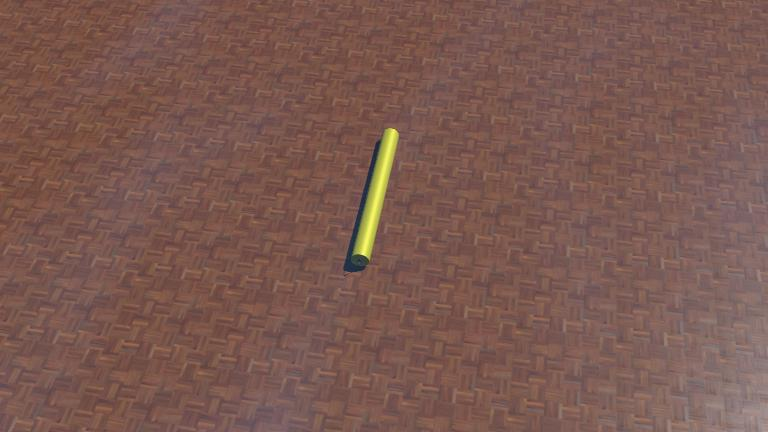
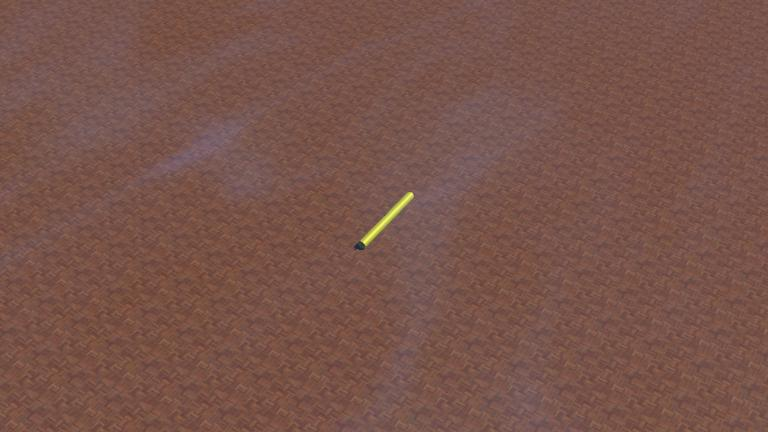
wip

diff --git a/controllers/alen3_controller_teleop/alen3_controller_teleop.py b/controllers/alen3_controller_teleop/alen3_controller_teleop.py
@@ -2,7 +2,10 @@
 
 from controller import Keyboard, Supervisor
 from controller.motor import Motor
+from controller.inertial_unit import InertialUnit
+from controller.altimeter import Altimeter
 from general_controller import GeneralAlenController, WebotsToAlenConnection
+from pid_controller import PidController
 
 MAX_X = 0.3
 MAX_Y = 0.3
@@ -10,6 +13,7 @@ MAX_VELOCITY = 10
 SEA_LEVEL = 3.0
 
 MOTOR_NAME = "motor"
+IMU_NAME = "inertial unit"
 
 robot = Supervisor()
 
@@ -19,26 +23,42 @@ def get_motor(name: str) -> Motor:
     if isinstance(possible_motor, Motor):
         return possible_motor
     else:
-        raise Exception(f"{MOTOR_NAME=} is not a motor")
+        raise Exception(f"{name=} is not a Motor")
+
+
+def get_imu(name: str) -> InertialUnit:
+    possible_unit = robot.getDevice(name)
+    if isinstance(possible_unit, InertialUnit):
+        return possible_unit
+    raise Exception(f"{name} is not an InertialUnit")
 
 
 global_motor = get_motor(MOTOR_NAME)
 propellerDefPath = "ROBOT.SHAFT_BASE_POSE.PROPELLER_POSE.PROPELLER"
 global_propeller_node = robot.getFromDef(propellerDefPath)
 global_robot_node = robot.getFromDef("ROBOT")
+global_imu = get_imu(IMU_NAME)
+# global_altimeter = robot.getDevice("altimeter")
+# if isinstance(global_altimeter, Altimeter):
+#     global_altimeter = global_altimeter
+# else:
+#     raise Exception("not an altimeter")
 
 
 connection = WebotsToAlenConnection(
     motor=global_motor,
+    imu=global_imu,
     propeller_node=global_propeller_node,
     robot_node=global_robot_node,
     max_velocity=MAX_VELOCITY,
     max_x_turn=MAX_X,
     max_y_turn=MAX_Y,
+    sea_level=SEA_LEVEL,
 )
 
 
 connection.init_motor()
+connection.init_imu()
 
 timestep = int(robot.getBasicTimeStep())
 keyboard = robot.getKeyboard()
@@ -52,11 +72,63 @@ alen = GeneralAlenController(
     set_y_turn=connection.set_y_turn,
 )
 
+# inner_pid_target_angle = PidController(0.0, kP=-25.0, kI=-1.0, kD=-1.0)
+inner_pid_target_angle = PidController(0.0, kP=-25.0)
+out_pid_rudder_output = PidController(0.0, kP=1 / 30)
+
+# depth_target = None
+
+max_dive_angle = 30.0
+max_rudder_output = 1.0
+
+
+def handle_new_depth_target(depth_target: float) -> None:
+    inner_pid_target_angle.update_set_point(depth_target)
+
+
+def compute_new_target_angle(current_depth: float) -> float:
+    pid_angle_output = inner_pid_target_angle.compute(current_depth)
+
+    if abs(pid_angle_output) > max_dive_angle:
+        pid_angle_output = (
+            max_dive_angle if pid_angle_output > 0 else -1 * max_dive_angle
+        )
+
+    return -1 * pid_angle_output
+
+
+def compute_new_rudder_output(new_target_angle: float, current_pitch: float) -> float:
+    out_pid_rudder_output.update_set_point(new_target_angle)
+    rudder_output = out_pid_rudder_output.compute(current_pitch)
+
+    if abs(rudder_output) > max_rudder_output:
+        rudder_output = (
+            max_rudder_output if rudder_output > 0 else -1.0 * max_rudder_output
+        )
+
+    return rudder_output
+
+
+def compute_rudder_angle(current_depth: float, current_pitch: float) -> float:
+    angle_pid_output = compute_new_target_angle(current_depth)
+    rudder_pid_output = compute_new_rudder_output(angle_pid_output, current_pitch)
+    return rudder_pid_output
+
 
 KEY_NUMBER_ZERO = 48
 KEY_NUMBER_ONE = 49
 KEY_NUMBER_TWO = 50
 KEY_PERIOD = 46
+
+# handle_new_depth_target(1.5)
+
+handle_new_depth_target(2.0)
+# print()
+
+# alen.set_y_turn(0.3)
+# alen.set_y_turn(1.0)
+
+# global_altimeter.enable(10)
 
 while robot.step(timestep) != -1:
     alen.update()
@@ -74,15 +146,38 @@ while robot.step(timestep) != -1:
     if key == KEY_PERIOD:
         alen.stop()
 
+    # print("depth", connection.get_depth())
+    # print("pitch", connection.get_pitch())
+    # connection.get_pitch()
+    # print(connection.get_pitch())
+
+    # TODO:
+    # se till att allt återställs vid shutdown?
+    # skulle initiera allt också?
+
     # print(get_pitch())
-    # if key == KEY_NUMBER_ZERO:
-    #     print("go to 0 meters")
-    #     print(get_depth())
-    # if key == KEY_NUMBER_ONE:
-    #     # print("go to 1 meter")
-    #     get_pitch()
-    # if key == KEY_NUMBER_TWO:
-    #     print("go to 2 meters")
+    if key == KEY_NUMBER_ZERO:
+        print("go to 0 meters, not implemented")
+        # print(get_depth())
+    if key == KEY_NUMBER_ONE:
+        print("go to 1 meter")
+        handle_new_depth_target(1.0)
+    if key == KEY_NUMBER_TWO:
+        print("go to 2 meters, not implemented")
+
+    new_rudder_angle = compute_rudder_angle(
+        connection.get_depth(), connection.get_pitch()
+    )
+
+    depth = connection.get_depth()
+    # diff = 1.0 - depth
+
+    # TODO: behöver nog plutta i en altitude meter??!
+    # print(global_altimeter.getValue())
+
+    print("depth", depth, "error", 2.0 - depth)
+    # print("new rudder angle", new_rudder_angle)
+    alen.set_y_turn(-new_rudder_angle)
 
     # print(key)
 

diff --git a/controllers/alen3_controller_teleop/general_controller.py b/controllers/alen3_controller_teleop/general_controller.py
@@ -1,6 +1,7 @@
 import math
 from controller import Node
 from controller.motor import Motor
+from controller.inertial_unit import InertialUnit
 from typing import Callable, Literal
 
 
@@ -69,22 +70,29 @@ class WebotsToAlenConnection:
     def __init__(
         self,
         motor: Motor,
+        imu: InertialUnit,
         propeller_node: Node,
         robot_node: Node,
         max_velocity: float,
         max_x_turn: float,
         max_y_turn: float,
+        sea_level: float,
     ) -> None:
         self.motor = motor
+        self.imu = imu
         self.propeller_node = propeller_node
         self.robot_node = robot_node
         self.max_velocity = max_velocity
         self.max_x_turn = max_x_turn
         self.max_y_turn = max_y_turn
+        self.sea_level = sea_level
 
     def init_motor(self) -> None:
         self.motor.setPosition(float("inf"))
         self.motor.setVelocity(0.0)
+
+    def init_imu(self, sampling_period: int = 10) -> None:
+        self.imu.enable(sampling_period)
 
     def set_speed(self, speed_factor: float) -> None:
         new_speed = speed_factor * self.max_velocity
@@ -101,17 +109,25 @@ class WebotsToAlenConnection:
         new_y_turn = factor * self.max_y_turn
         field = self.propeller_node.getField("shaftAxis")
         old_value = field.getSFVec3f()
-        new_value = [new_y_turn, old_value[1], old_value[2]]
+        new_value = [old_value[0], old_value[1], new_y_turn]
         field.setSFVec3f(new_value)
 
     def get_depth(self) -> float:
         translation_field = self.robot_node.getField("translation")
         translation = translation_field.getSFVec3f()
-        return -translation[2]
+        # print("translation", translation)
+        current_elevation = translation[2]
+        return self.sea_level - current_elevation
+
+    # def get_pitch(self) -> float:
+    #     rotation_field = self.robot_node.getField("rotation")
+    #     rotation = rotation_field.getSFRotation()
+    #     print("rotation", rotation)
+    #     pitch_radians = rotation[3]
+    #     pitch_degrees = math.degrees(pitch_radians) - 90
+    #     return pitch_degrees
 
     def get_pitch(self) -> float:
-        rotation_field = self.robot_node.getField("rotation")
-        rotation = rotation_field.getSFRotation()
-        pitch_radians = rotation[3]
-        pitch_degrees = math.degrees(pitch_radians) - 90
+        pitch_radians = self.imu.getRollPitchYaw()[1]
+        pitch_degrees = math.degrees(pitch_radians)
         return pitch_degrees

diff --git a/controllers/alen3_controller_teleop/pid_controller.py b/controllers/alen3_controller_teleop/pid_controller.py
@@ -1,0 +1,49 @@
+from time import time
+
+
+class PidController:
+    def __init__(self, set_point, kP=0.0, kI=0.0, kD=0.0, on_log_error=None) -> None:
+        self.kP = kP  # proportional gain
+        self.kI = kI  # integral gain
+        self.kD = kD  # derivative gain
+        self.set_point = set_point
+        self.last_computed_at = None
+        self.cumulative_error = 0.0
+        self.last_error = 0.0
+        self.on_log_error = on_log_error
+
+    def update_set_point(self, value):
+        self.set_point = value
+
+    def compute(self, system_current_value):
+        now = time()
+
+        if self.last_computed_at is None:
+            self.last_computed_at = now
+
+        error = self.set_point - system_current_value
+
+        if self.on_log_error:
+            self.on_log_error(error)
+
+        p = self.kP * error
+
+        time_delta = now - self.last_computed_at
+        self.cumulative_error += error * time_delta
+
+        i = self.cumulative_error * self.kI
+
+        error_delta = error - self.last_error
+
+        rate_of_error = 0.0
+
+        if time_delta > 0:
+            rate_of_error = error_delta / time_delta
+
+        d = rate_of_error * self.kD
+
+        self.last_error = error
+
+        self.last_computed_at = now
+
+        return p + i + d
